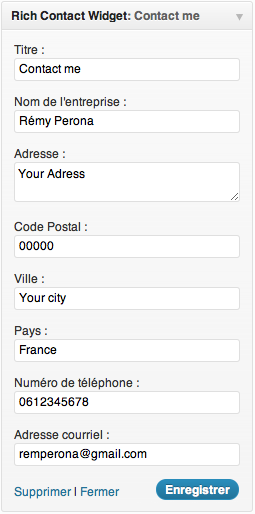
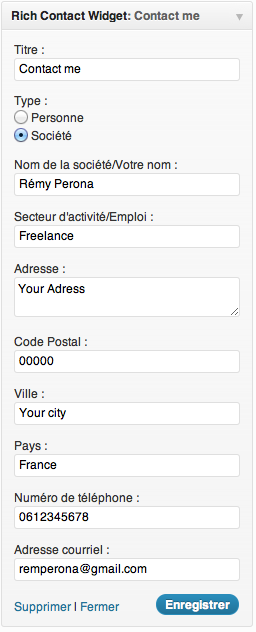
Added choices between Person and Company Added Activity/Job field Updated french translation Updated screenshots
git-svn-id: https://plugins.svn.wordpress.org/rich-contact-widget/trunk@564597 b8457f37-d9ea-0310-8a92-e5e31aec5664

diff --git a/rich-contact-widget.php b/rich-contact-widget.php
@@ -33,7 +33,9 @@ class RC_Widget extends WP_Widget {
 	 */
 	public $widget_keys = array(
 			'title',
+			'type',
 			'name',
+			'activity',
 			'address',
 			'postal_code',
 			'city',
@@ -68,10 +70,20 @@ class RC_Widget extends WP_Widget {
 		echo $before_widget;
 		if ( ! empty( $title ) )
 			echo $before_title . $title . $after_title;
+		if ( $instance['type'] == 'person' ) {
+			$type = 'Person';
+			$activity = 'jobTitle';
+			$org = '';
+		} else {
+			$type = 'Corporation';
+			$activity = 'description';
+			$org = ' org';
+		}
 		?>
-		<ul class="vcard" itemscope itemtype="http://schema.org/Corporation">
+		<ul class="vcard" itemscope itemtype="http://schema.org/<?php echo $type; ?>">
 			<?php if ( !empty( $instance['name'] ) ) ?>
-				<li class="fn org" itemprop='name'><strong><?php echo $instance['name']  ?></strong></li>
+				<li class="fn<?php echo $org; ?>" itemprop='name'><strong><?php echo $instance['name']  ?></strong></li>
+				<li itemprop="<?php echo $activity; ?>"><?php echo $instance['activity'] ?></li>
 			<ul class="adr" itemprop="address" itemscope itemtype="http://schema.org/PostalAddress">
 				<?php if ( !empty( $instance['address'] ) ) { ?>
 					<li class="street-address" itemprop='streetAddress'><?php echo $instance['address'] ?></li>
@@ -155,8 +167,18 @@ class RC_Widget extends WP_Widget {
 		<input class="widefat" id="<?php echo $this->get_field_id( 'title' ); ?>" name="<?php echo $this->get_field_name( 'title' ); ?>" type="text" value="<?php echo esc_attr( $title ); ?>" />
 		</p>
 		<p>
-			<label for="<?php echo $this->get_field_id( 'name' ); ?>"><?php _e( 'Company name :', 'rich-contact-widget' ); ?></label>
+			<?php _e('Type :', 'rich-contact-widget'); ?><br />
+			<input id="<?php echo $this->get_field_id( 'person' ); ?>" name="<?php echo $this->get_field_name( 'type' ); ?>" type="radio" value="person" <?php echo ( $type == 'person' ) ? 'checked' : ''; ?>  />
+			<label for="<?php echo $this->get_field_id( 'person' ); ?>"><?php _e('Person', 'rich-contact-widget'); ?><br />
+			<input id="<?php echo $this->get_field_id( 'company' ); ?>" name="<?php echo $this->get_field_name( 'type' ); ?>" type="radio" value="company" <?php echo ( $type == 'company' ) ? 'checked' : ''; ?> />
+			<label for="<?php echo $this->get_field_id( 'company' ); ?>"><?php _e('Company', 'rich-contact-widget'); ?>
+		<p>
+			<label for="<?php echo $this->get_field_id( 'name' ); ?>"><?php _e( 'Company name/Your name :', 'rich-contact-widget' ); ?></label>
 			<input class="widefat" id="<?php echo $this->get_field_id( 'name' ); ?>" name="<?php echo $this->get_field_name( 'name' ); ?>" type="text" value="<?php echo esc_attr( $name ); ?>" />
+		</p>
+		<p>
+			<label for="<?php echo $this->get_field_id('activity'); ?>"><?php _e('Activity/Job :', 'rich-contact-widget'); ?></label>
+			<input class="widefat" id="<?php echo $this->get_field_id('activity'); ?>" name="<?php echo $this->get_field_name('activity'); ?>" type="text" value="<?php echo esc_attr( $activity ); ?>" />
 		</p>
 		<p>
 			<label for="<?php echo $this->get_field_id( 'address' ); ?>"><?php _e( 'Company address :', 'rich-contact-widget' ); ?></label>
